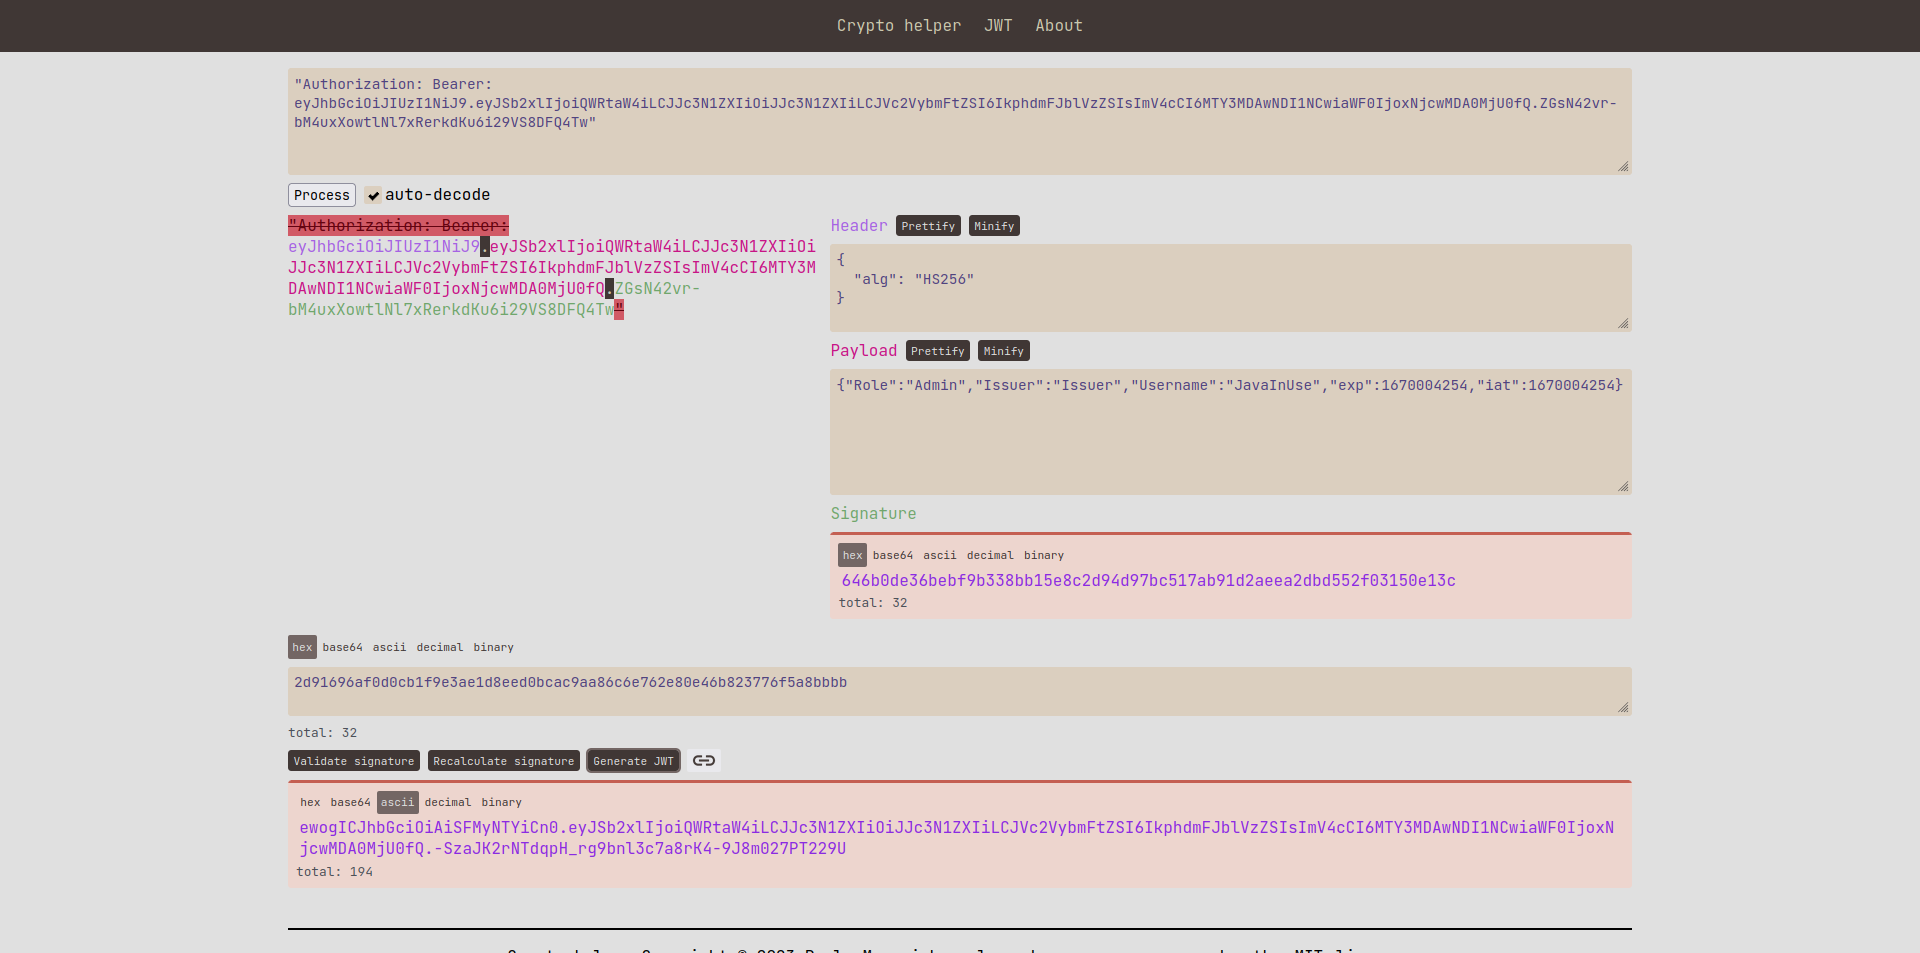
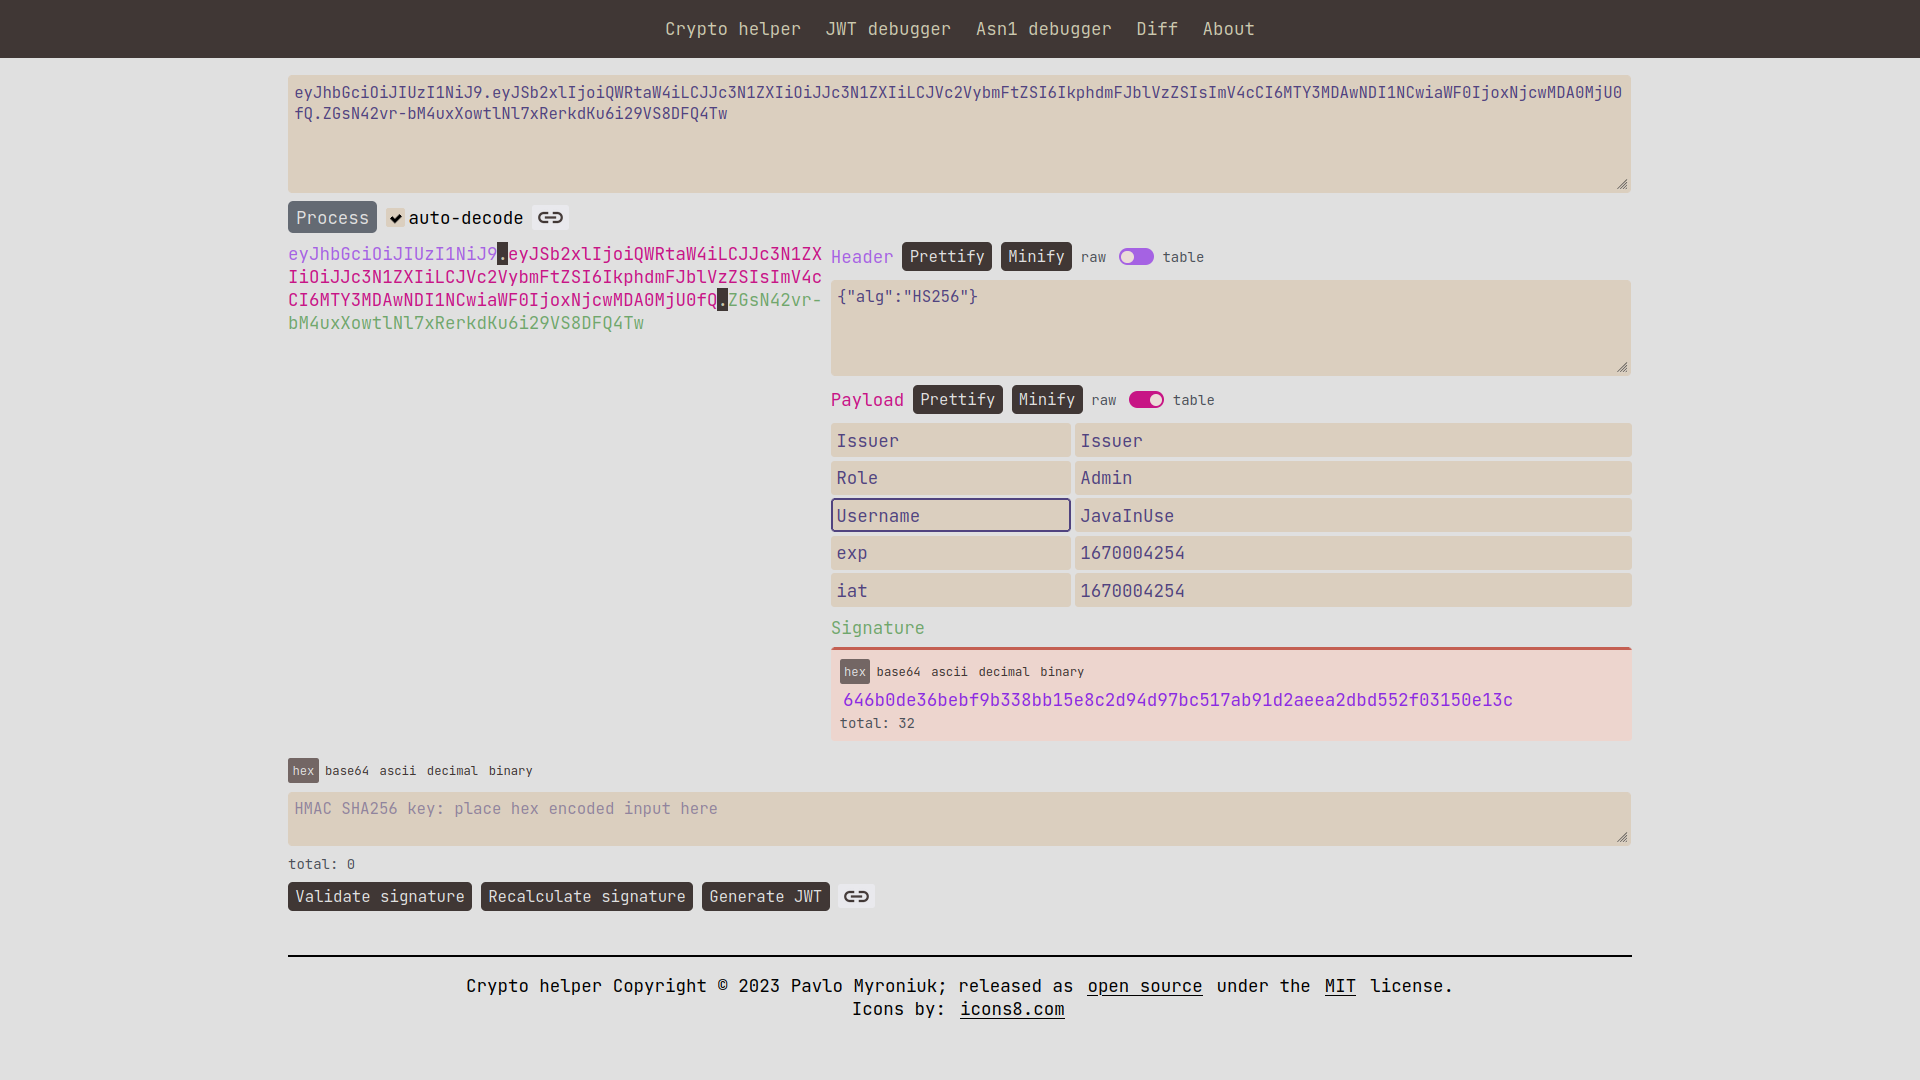
Update readme.md (#79)
* feat(crypto-helper): update readme.md;

* feat(crypto-helper): update readme.md;

* feat(crypto-helper): update readme.md;

* feat(crypto-helper): update readme.md;

diff --git a/src/asn1.rs b/src/asn1.rs
@@ -182,7 +182,7 @@ pub fn asn1_parser_page() -> Html {
         <div class={classes!("vertical", "asn1-page")} {onkeydown}>
             <span>
                 <a href="https://github.com/TheBestTvarynka/crypto-helper/tree/main/crates/asn1-parser#supported-asn1-types" class="a-link">
-                    {"list of supported asn1 types"}
+                    {"List of supported asn1 types"}
                 </a>
                 {". Report a bug/feature "}<a href="https://github.com/TheBestTvarynka/crypto-helper/issues/new" class="a-link">{"here"}</a>{"."}
             </span>

diff --git a/README.md b/README.md
@@ -14,13 +14,14 @@ Table of content:
   - [Meta](#meta)
   - [Contributing](#contributing)
 
-![](/public/img/example.png)
-![](/public/img/sha.png)
+![](/public/img/crypto-helper.png)
 ![](/public/img/jwt.png)
+![](/public/img/asn1.png)
+![](/public/img/diff.png)
 
-The crypto-helper is a web app that helps to work with the different crypto algorithms. This app can hash/hmac, encrypt/decrypt, and sign/verify the data.
+The crypto-helper is a web app that helps to work with the different crypto algorithms. This app can hash/hmac, encrypt/decrypt, and sign/verify the data, debug JWT tokens, parse ASN1 structures, compute diffs, and more.
 
-All computations are performed on the client side. This tool never sends the data to any server.
+All computations are performed on the client side. _This tool never sends the data to any server._
 
 ### Features
 
@@ -44,6 +45,10 @@ All computations are performed on the client side. This tool never sends the dat
   * `ES256`
   * `ES384`
   * `ES512`
+* ASN1 Debugger
+* Diff checker
+
+Read more about features and motivation here: https://tbt.qkation.com/projects/crypto-helper.
 
 ### Development
 
